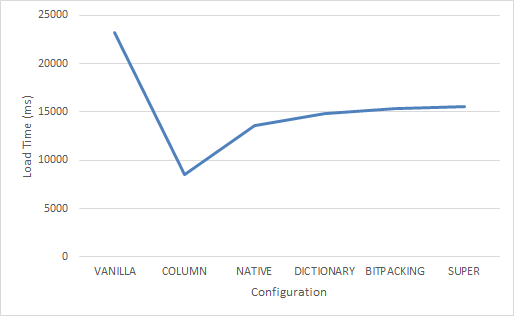
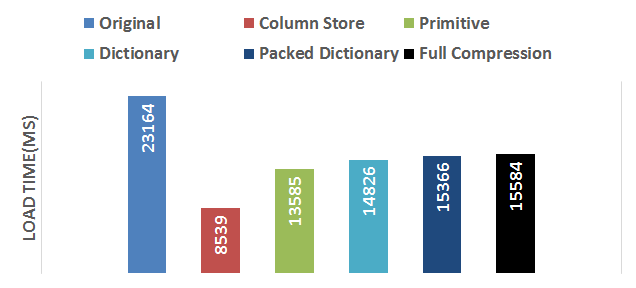
Chapter 7 done

diff --git a/implementation/compression.tex b/implementation/compression.tex
@@ -1,6 +1,6 @@
 \chapter{Part III: Compression}
 \label{chap:compression}
-So far we have reduced the number of bytes per \lineitem~from 715 bytes to 374 bytes in the \textit{TPC-H Q1 Data Load Bencmark}. This corresponds to a reduction of 48 \%. However, we have not yet explored any compression techniques which we studied in Chapter \ref{chap:olap}. In this chapter, we investigate the effects of light-weight compression methods by implementing dictionary encoding, bitpacking, and property packing. Also, we inquire into a new technique for compressing null pointers, which we denote as \textit{null-pointer compression}. \todo{See if this name can be used}
+So far we have reduced the number of bytes per \lineitem~from 715 bytes to 374 bytes in the \tpchdl. This corresponds to a reduction of 48 \%. However, we have not yet explored any compression techniques which we studied in Chapter \ref{chap:olap}. In this chapter, we investigate the effects of light-weight compression methods by implementing dictionary encoding, bitpacking, and property packing. Also, we inquire into a new technique for compressing null pointers, which we denote as \textit{null pointer compression}. \todo{See if this name can be used}
 
 This chapter forms the third and final iteration where the goal is to reduce memory. There is one more iteration, but this does not seek to reduce memory any further, only utilize the storage structures to increase performance for read-intense operations.
 
@@ -8,35 +8,35 @@ This chapter forms the third and final iteration where the goal is to reduce mem
 
 \section{Introduction}
 \label{sec:Introduction}
-In Section \ref{sec:Compression}, we saw that compression not only reduces memory requirements but also comes with the benefit of increased performance. Compression is beneficial because it increases cache locality, turns processes CPU-bound from memory-bound and thus reduces the number of CPU cycles. SIMD instructions might also increase processing throughput on compressed data. According to Abadi \ea, compression increases performance by a factor of two on average \cite{Abadi2008-dd}. For compression to be beneficial the compression must be \textit{light-weight} since the real benefit of compression can only be leveraged if the decompression effort is minimized.
+In Section \ref{sec:Compression}, we saw that compression not only reduces memory requirements but also comes with the benefit of increased performance. Compression is beneficial because it increases cache locality, turns processes CPU-bound from memory-bound and thus reduces the number of CPU cycles needed to process data. SIMD instructions might also increase processing throughput on compressed data. According to Abadi \ea, compression increases performance by a factor of two on average \cite{Abadi2008-dd}. For compression to be beneficial the compression must be \textit{light-weight} since the real benefit of compression can only be leveraged if the decompression effort is minimized.
 
-One such light-weight compression technique, is \textit{dictionary encoding}, which we saw in Section \ref{sec:Dictionary Encoding}. In a dictionary encoded column, each distinct value is stored once in a structure known as a dictionary, and instead of storing the actual values, keys to this dictionary are stored in the column. Not only does this technique save space, but it may increase query performance since comparisons are reduced to cheap integer operations. In this iteration, we extend our column store to support dictionary encoding and hope to leverage the benefits this technique gives us.
+One such light-weight compression technique is \textit{dictionary encoding}, which we saw in Section \ref{sec:Dictionary Encoding}. In a dictionary encoded column, each distinct value is stored once in a structure known as a dictionary, and instead of storing the actual values, keys to this dictionary are stored in the column. Not only does this technique save space, but it may increase query performance since comparisons are reduced to cheap integer operations. In this iteration, we extend our column store to support dictionary encoding and hope to leverage the benefits this technique gives us.
 
 The second technique we implement in this iteration is bitpacking, which we studied in Section \ref{sec:Bitpacking}. In this compression scheme, no more bits than needed are used to store a value. This improves cache hit-rate and enables SIMD query processing. Bitpacking and dictionary encoding are commonly used in conjunction, and this what we will do in this iteration.
 
-Last, we explore two techniques to save even more memory in \gap. The first is a technique we denote as \textit{null-pointer compression}. It is based on the observation that a \cn{CompositionObject} has several properties, properties that are commonly \null. Thus, by moving the properties to the column store, we may save space by not allocating any values unless they are set. The second technique we apply is to compress the residual member variables in the \cn{CompositionObject} class with a \cn{packed record}.
+Last, we explore two techniques to save even more memory in \gap. The first is a technique we denote as \textit{null pointer compression}. It is based on the observation that a \cn{CompositionObject} has several properties, properties that are commonly \nil. Thus, by moving the properties to the column store, we may save space by not allocating any values unless they are set. The second technique we apply is to compress the residual member variables in the \cn{CompositionObject} class with a \cn{packed record}.
 
 \section{Implementation}
 \label{sec:Implementation}
-In this section, we explain how compression is implemented by creating new \cn{FieldValueCollectionBase} subclasses for dictionary encoding. Then we proceed with null-pointer compression and property packing.
+In this section, we explain how compression is implemented by creating new \cn{FieldValueCollectionBase} subclasses for dictionary encoding, both with and without bitpacking. Then we proceed with null pointer compression and property packing.
 
 \subsection{Dictionary Encoding}
 \label{compression:dictionary-encoding}
 % Short introduction on DE
-In Section \ref{sec:Dictionary Encoding}, we saw that dictionary encoding is commonly applied as a compression technique in OLAP-databases. There are many benefits with dictionary encoding in addition to a reduction in memory usage, like improved data locality and query speedup. For instance, expensive string operations can be reduced to cheap integer comparisons by scanning the dictionary for keys first.
+In Section \ref{sec:Dictionary Encoding}, we saw that dictionary encoding is commonly applied as a compression technique in OLAP-databases. There are many benefits with dictionary encoding in addition to a reduction in memory usage, like improved data locality and query speedup.
 
 In a dictionary encoded column, the dictionary can be structured either for read or write performance, or both. For read performance, there must exist a lookup from a dictionary index to the actual value. For such lookup, a simple index-based list suffices, adding new keys to the end of the list as they appear. Hence, value lookups happen in constant time. However, with this implementation, a linear search to find the correct key in the dictionary is performed every time there is a write operation on the column. Here, an inverse lookup from dictionary values to indexes would be beneficial.
 
 \afigure{img/dict-inverse.png}{Dictionary encoded column implementation. Both value buffer and dictionary are stored using \cn{TArray}. To ensure constant time write operations, we keep an inverse lookup from values to dictionary keys, which is implemented as a \cn{TDictionary}. Read-only data sources may drop the inverse lookup to save memory.}{fig:dict-inverse}{1.0}
-Since \gap~must handle both transactional and analytical workloads, we implement a dictionary encoded column with both lookup structures, such that both read and write operations happen in constant time. We have depicted this in Figure \ref{fig:dict-inverse}. However, keeping both structures comes at the cost of increased memory. Thus, for read-only workloads, like \gd, we would like to discard the inverse lookup. We implement this in \fn{Consolidate}; when this function is called, we deallocate the inverse lookup.
+Since \gap~must handle both transactional and analytical workloads, we implement a dictionary encoded column with both lookup structures, such that both read and write operations happen in constant time. We have depicted this in Figure \ref{fig:dict-inverse}. However, keeping both structures comes at the cost of increased memory. Thus, for read-only workloads, like \gd, we would like to discard the inverse lookup. We implement this in \fn{Consolidate}; when this function is called, we deallocate the inverse lookup. \todo{Consider rewriting}
 
 \afigure{img/PrimitiveDictionaryFieldValueCollection.png}{\cn{PrimitiveDictionaryFieldValueCollection} class diagram. The class inherits from \cn{FieldValueCollectionBase}, and has a subclass for each supported primitive type.}{fig:PrimitiveDictionaryFieldValueCollection}{0.9}
-We implement a new class, \cn{PrimitiveDictionaryFieldValueCollection}, to be our dictionary encoded column class. The class uses \cn{TArray} for both values, or dictionary keys, and the dictionary itself. We chose this array type based on the performance assessment from Appendix \ref{app:array-types}. For the inverse lookup, we use a \cn{TDictionary}. For different primitive types, \cn{PrimitiveDictionaryFieldValueCollection} has a subclass for each supported type which uses the same value helper as we introduced in the previous section. \cn{PrimitiveDictionaryFieldValueCollection} extends \cn{FieldValueCollectionBase}. A full class diagram is shown in Figure \ref{fig:PrimitiveDictionaryFieldValueCollection}.
+We implement a new class, \cn{PrimitiveDictionaryFieldValueCollection}, to be our dictionary encoded column class. The class uses \cn{TArray} for both values, or dictionary keys, and the dictionary itself. We choose this array type since the performance assesment from Appendix \ref{app:array-performance} indicates that \cn{TArray} is the fastest array structure. For the inverse lookup, we use a \cn{TDictionary}. For different primitive types, \cn{PrimitiveDictionaryFieldValueCollection} has a subclass for each supported type which uses the same value helper as we introduced in the previous section. \cn{PrimitiveDictionaryFieldValueCollection} extends \cn{FieldValueCollectionBase}. A class diagram is shown in Figure \ref{fig:PrimitiveDictionaryFieldValueCollection}.
 
-The array with dictionary keys, or value buffer, uses the same growth strategy as we discussed in Section \ref{sub:Growth Strategy}. Like \cn{FieldValueCollection} and \cn{PrimitiveFieldValueCollection}, the value buffer is doubled on index overflow, and the \fn{Consolidate} method resize the column to the exact data source size.
+The array with dictionary keys, or the value buffer, uses the same growth strategy as we discussed in Section \ref{sub:Growth Strategy}. Like \cn{FieldValueCollection} and \cn{PrimitiveFieldValueCollection}, the value buffer is doubled on index overflow, and the \fn{Consolidate} method resize the column to the exact data source size.
 
 \subsection{Bitpacking}
-\label{sub:Bitpacking}
+\label{compression:bitpacking}
 
 % Short introduction on bp
 Bitpacking is a compression technique where values are stored with no more bits than needed. As we saw in Section \ref{sub:Dictionary Encoding and Bitpacking}, dictionary encoding and bitpacking goes hand in hand. We, therefore, implement bitpacking in our dictionary encoded columns to save memory.
@@ -45,22 +45,22 @@ Bitpacking is a compression technique where values are stored with no more bits 
 \afigure{img/bp-overflow.png}{Bitpacked value buffer. First, we see a dictionary overflow, where the value buffer is rebuilt with extra padding. Second, if needed, a new cell is added to hold the new value.}{fig:bp-overflow}{1.0}
 We implement the value buffer as an array of 8 byte chucks, where we denote each chunk as a \textit{cell}. Unlike previous column implementations, a cell is added one at a time, instead of using a doubling strategy. We did this for simplicity reasons, and, since each cell contains multiple values, array reallocation happens less frequent than for an uncompressed column.
 
-One of the main challenges with bitpacking, is word alignment. If keys are allowed to cross machine word boundaries, not only performance will suffer, but the implementation complexity increase drastically. Therefore, we take a simpler approach, where the number of bits used to store each value must be a power of 2. As seen in Figure \ref{fig:bp-overflow}, a dictionary overflow causes the bits per value to go from two to four to avoid values stored across machine word boundaries. When a dictionary overflows, the columns rebuilds the entirev value buffer using the new number of bits per value.
+One of the main challenges with bitpacking, is word alignment. If keys are allowed to cross machine word boundaries, not only performance will suffer, but the implementation complexity increase drastically. Therefore, we take a simpler approach, where the number of bits used to store each value must be a power of 2. As seen in Figure \ref{fig:bp-overflow}, a dictionary overflow causes the bits per value to go from two to four to avoid values stored across machine word boundaries. When a dictionary overflows, the columns rebuilds the entire value buffer using the new number of bits per value.
 
 \afigure{img/PrimitivePackedDictionaryFieldValueCollection.png}{\cn{PrimitivePackedDictionaryFieldValueCollection} class diagram. The class is very similar to \cn{PrimitiveDictionaryFieldValueCollection}, but it has a different storage structure for its values and holds some state variables needed for bitpacking.}{fig:PrimitivePackedDictionaryFieldValueCollection}{0.7}
 We name our bitpacked dictionary encoded column class \cn{PrimitivePackedDictionaryFieldValueCollection}, and, like always, the class inherits from \cn{FieldValueCollectionBase}. The value buffer was implemented using a \cn{TArray<UInt64>}. Like the non-packed version, a \cn{TArray} was used for the dictionary and \cn{TDictionary} for the inverse lookup. In addition to this, the class holds some state regarding the bitpacking, and a private function \fn{IncreaseDictionaryCapacity} which rebuilds the value buffer on dictionary overflow. The class diagram is seen in Figure \ref{fig:PrimitivePackedDictionaryFieldValueCollection}.
 
 \subsection{Null Pointer Compression}
-\label{sub:Null Pointer Compression}
+\label{compression:null-pointer-compression}
 
-\afigure{img/null-pointer-compression.png}{Null pointer compression. Based on the observation that most \cn{CompositionObject} properties are normally \nil, data can be compressed by not allocating value buffers until the properties are set.}{fig:null-pointer-compression}{0.9}
+\afigure{img/null-pointer-compression.png}{Null pointer compression. Based on the observation that most \cn{CompositionObject} properties are normally \nil, data can be compressed by not allocating value buffers until the properties are set.}{fig:null-pointer-compression}{1.0}
 
 So far, we have compressed data from the Information System and Information System Development Layers. However, there are several other structures that belong to \cn{CompositionObject}s which are used in the Method Engineering layer. These structures include lists of data validation and integrity errors, formatting rules, and more. Our observation is that these attributes are not fundamentally different from attributes from the other model-driven engineering layers, which means we are able to put these pointers into our column store too. Although one might initially think that we have only moved the problem and that the pointers now are stored in the column store instead in the composition objects, we may save memory based on the observation that these pointers are usually \nil. In other words, these pointer columns do not need to be allocated before any values are set. We illustrate this scenario in Figure \ref{fig:null-pointer-compression}.
 
 To enable null pointer compression, we implement a new generic column structure named \cn{DefaultObjectList<TType>}. This class is an array structure that can be instantiated with any class type that will return \nil~if no values are set. If values are set, the array, or column, is allocated to accommodate these values. We extend the base column store class, \cn{CompositionValueCollection}, with one such \cn{DefaultObjectList} for each pointer variable in \cn{CompositionObject}. Hence, objects must now query the column store and provide a data source index to access structures used in the method engineering layer, like validation errors and formatting rules. A total of six member variables from \cn{CompositionObject} was moved to the column store.
 
 \subsection{Property Packing}
-\label{sub:Property Packing}
+\label{compression:property-packing}
 \begin{delphicode}{Structure with packed data for \cn{CompositionObject}.}{lst:packed-struct}
 PackedComObjData = packed record
     modifyCount,
@@ -73,13 +73,11 @@ In the last section, we saw how null pointers could be compressed by moving memb
 
 To reduce the memory footprint used by these attributes, we compress them in a \delphi~record type with the \vn{packed} keyword. This keyword tells the compiler to pack data and disregard word boundaries \cite{noauthor_undated-vu}. Thus, we take all the residual properties from the \cn{CompositionObject} class and move it to a \cn{PackedComObjData} record type. Listing \ref{lst:packed-struct} shows the structure.
 
-As a result of both null pointer compression from Section \ref{sec:Null Pointer Compression} and the property packing from this section, a \cn{CompositionObject} has no member variables except for the \cn{PackedComObjData} record and a pointer to the column store.
+As a result of both null pointer compression and property packing, a \cn{CompositionObject} has no member variables except for the \cn{PackedComObjData} record and a pointer to the column store.
 
 \section{Results}
 \label{sec:Results}
 We test the changes from this iteration with the \tpchdl, Benchmark \ref{bm:q1} and the \textit{Write Benchmark}, Benchmark \ref{bm:write}. Like the previous two iterations, we are curious to see how compression techniques affect memory consumption, load time, read performance, and write performance. 
-
-
 
 \begin{table}
     \begin{tabularx}{\textwidth}{X | X X}
@@ -103,84 +101,45 @@ We read in Section \ref{sec:Dictionary Encoding} that dictionary encoding is onl
 
 In this iteration, we test four new configurations in addition to the primitive column configuration from the previous chapter:
 \begin{itemize}
-    \item \textbf{Primitive} is the configuration from the last iteration, which is column store with non-compressed, primitive values.
-    \item \textbf{Dictionary} uses dictionary compression from Section \ref{compression:dictionary-encoding]}. No bitpacking.
-    \item \textbf{Dictionary /w Raw Load} is the same dictionary compression configuration as above, but with raw XML string value load as outlined in Section \ref{storage-format:raw-xml}.
-    \item \textbf{Packed Dictionary} is the bitpacked dictionary compression from Section \ref{compression:bitpacking}.
-    \item \textbf{Full Compression} uses bitpacked dictionary as well as null pointer compression and property packing.
+    \item \textit{Primitive} is the configuration from the last iteration, which is column store with non-compressed, primitive values.
+    \item \textit{Dictionary} uses dictionary compression from Section \ref{compression:dictionary-encoding}. No bitpacking.
+    \item \textit{Dictionary /w Raw Load} is the same dictionary compression configuration as above, but with raw XML string value load as outlined in Section \ref{storage-format:raw-xml}.
+    \item \textit{Packed Dictionary} is configuration where we use the bitpacked dictionary compression from Section \ref{compression:bitpacking}.
+    \item \textit{Full Compression} configuration uses all compression techniques discussed in this chapter: Bitpacked dictionary encoding with null pointer compression and proprety packing.
 \end{itemize}
+Like the previous iterations, we run each benchmark three times and report the mean measurements. All results had low variance, within 15 \% of the average measurement.
 
 \subsection{TPC-H Q1 Data Load Benchmark}
-Benchmark \ref{bm:q1}, the \textit{TPC-H Q1 Data Load Benchmark}, was run with all three compression configurations. In addition to this, dictionary encoding was run with raw value load, as explained in Section \ref{sec:Avoiding GValues at Load Time}. Both scaling factors were used for the tests. Like the previous chapters, all tests were run three times per configuration. There was low variance in the results, and no single measurement was more than 15 \% different from the average value.
-\begin{table}
-    \centering
-    \begin{tabularx}{\textwidth}{X | X X}
-        & SF0.01 & SF0.1 \\ 
-        \hline
-        \hline
-        Primitive Column Store & 333 bytes & 374 bytes \\
-        Dictionary Encoding & 298 bytes & 318 bytes \\
-        Dictionary Encoding w/ raw value load & 298 bytes & 318 bytes \\
-        Dictionary Encoding w/ bitpacking & 290 bytes & 301 bytes \\
-        Dictionary Encoding w/ bitpacking, null-pointer compression, and attribute packing & 226 bytes & 237 bytes \\
-    \end{tabularx}
-    \caption{Bytes per \texttt{LINEITEM} for various compression implementations.} 
-    \label{tab:dict-bpl}
-\end{table}
+Benchmark \ref{bm:q1}, the \tpchdl, was run with all configurations enumerated above. We use both scaling factors, SF0.01 and SF0.1, but if we observe the same effects with both, we only report for SF0.1.
 
-We see in Table \ref{tab:dict-bpl} that memory used per lineitem is reduced by 11 \% and 15 \% for scaling factors 0.01 and 0.1 respectively. Also, there is no longer a difference between memory footprint for original and new raw value loading mechanism, something we observed in Section \ref{sub:storage-format-tpch-results}. There is a slight memory reduction by applying bit-packing, but null-pointer compression and attribute packing has reduced memory storage from 374 to 237 bytes for scaling factor 0.1, which means our compression has reduced memory usage by 37 \%. 
-\begin{table}
-    \centering
-    \begin{tabularx}{\textwidth}{X | X X}
-        & SF0.01 & SF0.1 \\ 
-        \hline
-        \hline
-        Primitive Column Store & 1210 ms & 13585 ms \\
-        Dictionary Encoding & 1332 ms & 14826 ms \\
-        Dictionary Encoding w/ raw value load & 2215 ms & 21760 ms \\
-        Dictionary Encoding w/ bitpacking & 1421 ms &  15366 ms \\
-        Dictionary Encoding w/ bitpacking, null-pointer compression, and attribute packing & 1389 ms & 15584 ms \\
-    \end{tabularx}
-    \caption{Load times for Benchmark \ref{bm:q1} for different column compression implementations for scaling factors 0.01 and 0.1.} 
-    \label{tab:dict-load}
-\end{table}
+\afigure{img/compression-bpl.png}{Bytes per \lineitem~used by all configurations tested in this iteration of data compression, Benchmark \ref{bm:q1} with scaling factors SF0.01 and SF0.1.}{fig:compression-bpl}{0.9}
+We see in Figure \ref{fig:compression-bpl} that the \textit{dictionary} configuration reduce memory by 11 \% and 15 \% for scaling factors 0.01 and 0.1 respectively. Also, there is no longer a difference in memory footprint for original and raw XML value loading mechanism, something there was in Section \ref{sub:storage-format-tpch-results}. Null pointer compression and property packing significantly reduce memory consumption, while bitpacking only reduces the bytes per \lineitem~by 5 \%. For SF0.1, the total reduction from \textit{primitive} to \textit{full compression} is 137 bytes, or 37 \%.
 
-As we see in Table \ref{tab:dict-load}, load times have increased as a result of the compression. For scaling factor 0.1, dictionary encoding adds 1.2 seconds load time, bitpacking adds an additional 0.5 seconds, and null-pointer compression and attribute packing adds 0.2 seconds more. Even though load time has been increased, it is still less than the original implementation. Loading raw values into the columns increases load time to 21.8 seconds for SF 0.1. We discuss this observation in Section \ref{sec:compression-discussion}.
+\afigure{img/compression-load.png}{Data source load time for all compression configurations tested in this iteration, Benchmark \ref{bm:q1}, SF0.1.}{fig:compression-load}{0.8}
+As we see in Figure \ref{fig:compression-load}, load times have increased as a result of compression. For SF0.1, dictionary encoding adds 1.2 seconds load time, bitpacking adds an additional 0.5 seconds, and null pointer compression and property packing adds 0.2 seconds more. Even though load time has been increased, it is still less than the original implementation. Loading raw values into the columns increases load time to 21.8 seconds for SF 0.1. 
 
-We refrain from presenting the timing results for lookup index generation and source measure lookup from Benchmark \ref{bm:q1}. These does not vary significantly from the results presented in Section \ref{sec:storage-format-test-results}.
+We benchmark the read-intense operations, lookup index generation and source measure lookup, for all configurations in this iteration. However, since the measurements are not significantly different from the previous iteration, we do not present them in this chapter. See Section \ref{storage-format:q1}.
 
 \subsection{Write Benchmark}
-\label{sub:compression-write-benchmark}
-\begin{table}
-    \begin{tabularx}{\textwidth}{X | X X X X}
-         & \texttt{QUANTITY} & \texttt{EXTENDEDPRICE} & \texttt{COMMENT} & \texttt{SHIPDATE}\\ 
-        \hline
-        \hline
-        Primitive Column Store & 1807 ms & 1779 ms & 1820 ms & 2352 ms \\
-        Dictionary Encoding & 1855 ms & 1774 ms & 1753 ms & 2183 ms \\
-        Dictionary Encoding /w Bitpacking & 1757 ms & 1638 ms & 1657 ms & 2198 ms \\
-        Dictionary Encoding /w Bitpacking, null-pointer compression and attribute packing & 1939 ms & 1813 ms & 1777 ms & 227 ms \\
-    \end{tabularx}
-    \caption{Test results for Benchmark \ref{bm:write}.}
-    \label{tab:compression-write}
-\end{table}
-Write performance has not been significantly changed compared to primitive column storage, as seen it Table \ref{tab:compression-write}. Bitpacking is the fastest of all implementations, but only by very little.
+\label{compression:write}
+\afigure{img/compression-write.png}{Write performance for configurations tested in this iteration, Benchmark \ref{bm:write}, 1000 elements.}{fig:compression-write}{1.0}
+Write performance has not been significantly changed compared to primitive column storage, as seen it Figure \ref{fig:compression-write}. Bitpacking is the fastest of all implementations, but only by very little.
 
 \section{Discussion}
 \label{sec:compression-discussion}
-We see that dictionary encoding is successful for compressing data, and for SF0.1 in the \textit{TPC-H Q1 Data Load Benchmark}, memory is reduced by 15 \% compared to the primitive column structure from the previous chapter. Bitpacking also contributes to reduced memory footprint, but not more than five percent. The increased compression rates come at the cost of higher load times and is now up to 15,4 seconds to load the entire mart into memory.
+We see that dictionary encoding is successful for compressing data, and for SF0.1 in the \tpchdl, memory is reduced by 15 \% compared to the primitive column structure from the previous chapter. Bitpacking also contributes to reduced memory footprint, but not more than five percent. The increased compression rates come at the cost of higher load times and it now takes 15,4 seconds to load the full data mart into memory.
 
-Null-pointer compression and property packing contribute to large memory savings and reduces the storage per \lineitem~from 301 bytes to 237 bytes. We observe that this number makes sense. We removed a total of eight pointers, and with 8 bytes per pointer, 64 bytes are saved. Hence, we are unsure whether property packing had any effect at all. \todo{check how many removed pointers} Either way, these two techniques does not significantly increase load time.
+Null pointer compression and property packing contribute to large memory savings and reduces the storage per \lineitem~from 301 bytes to 237 bytes, or 64 bytes. Since we only removed six pointers, or 48 bytes, it means property packing contributes to saving 16 bytes per element. Neither of these two techniques increase load time significantly.
 
-Neither of the applied techniques has changed the write performance, which strengthens our hypothesis that write operations have much overhead associated integrity, data validation, and formula calculation. However, read-intense operations in the \textit{TPC-H Q1 Data Load Benchmark} still suffers severely from the modification applied to \gap~so far, and we believe this is caused by the \cn{GValue} interface.
+None of the applied techniques has changed the write performance, which strengthens our hypothesis that write operations have much overhead associated integrity, data validation, and formula calculation. However, read-intense operations in the \tpchdl~still suffers severely from the modification applied to \gap~so far, and we believe this is caused by the \cn{GValue} interface.
 
-If we load raw XML string values directly into a dictionary encoded column, we observe that we save the same amount of memory as the built-in caching mechanism in \gap. In other words, the number of bytes for dictionary encoding and dictionary encoding with raw value load is the same. However, the load time is still significantly longer loading raw values. We believe this is because the caching mechanism not only re-uses data but also stores string-to-primitive conversion results. We discuss how a similar caching mechanism can be implemented in our column store in Section \ref{compression:future-work}
+If we load raw XML string values directly into a dictionary encoded column, we observe that we save the same amount of memory as the built-in caching mechanism in \gap. In other words, the number of bytes for dictionary encoding and dictionary encoding with raw value load is the same. However, the load time is still significantly longer if we load raw XML values. We believe this is because the caching mechanism not only re-uses data but also stores string-to-primitive conversion results. We discuss how a similar caching mechanism can be implemented in our column store in Section \ref{compression:future-work}.
 
 \section{Iteration Conclusion}
 \label{sec:Iteration Conclusion}
-\afigure{img/bytes.png}{The bytes used per \lineitem~during the course of this research.}{fig:bytes}{1.0}
-\afigure{img/load.png}{The number of milliseconds it takes to load the \textit{TPC-H Q1} data mart for the course of this research.}{fig:load}{1.0}
-In this iteration, we have reduced the memory required to load the \textit{TPC-H Q1} mart by 37 \%. This reduction is mainly caused by dictionary encoding and null-pointer compression. Compared to the original \gap~implementation, the bytes per \lineitem~is reduced by 67 \%. The reduction in memory usage is illustrated in Figure \ref{fig:bytes}. Although the introduction of primitive data types and compression has increased load time from the first \cn{FieldValueCollection} implementation, the time it takes to load the \textit{TPC-H Q1} mart is still reduced by 33 \% compared to the original implementation. This is illustrated in Figure \ref{fig:load}.
+\afigure{img/bytes.png}{The bytes used per \lineitem~for different configurations tested during the course of this research, Benchmark \ref{bm:q1}, SF0.1.}{fig:bytes}{0.8}
+\afigure{img/load.png}{The number of milliseconds used to load the \tpchdl~for different configurations tested during the course of this research, Benchmark \ref{bm:q1}, SF0.1.}{fig:load}{0.8}
+In this iteration, we have reduced the memory required by Benchmark \ref{bm:q1} by 37 \%. This reduction is mainly caused by dictionary encoding and null pointer compression. Compared to the original \gap~implementation, the bytes per \lineitem~is reduced by 67 \%. The reduction in memory usage throughout the iterations of this research illustrated in Figure \ref{fig:bytes}. Although the introduction of primitive data types and compression has increased load time from the first \cn{FieldValueCollection} implementation, the time it takes to load the \tpchdl~is still reduced by 33 \% compared to the original implementation. This is illustrated in Figure \ref{fig:load}.
 
 Concluding this iteration, we are left with two major challenges. The first challenge was discovered in the previous iteration: Read-intensive operations must be adapted to utilize the new storage format. For instance, one of source measure lookup operations in Benchmark \ref{bm:q1}~now takes 6.9 seconds, an operation which previously took 0.3 seconds. We address this challenge in Chapter \ref{chap:operations}.
 
@@ -191,3 +150,48 @@ The second challenge, which is a result of dictionary compression, is to select 
 Like the last iteration, we encourage studying the built-in caching mechanism in \gap. We have proved that dictionary encoded columns re-use values as efficiently as the existing mechanism, but if caching is disabled, the load time is significantly higher. We believe this is caused by the caching mechanism re-using string-to-primitive value conversions. One straight-forward solution to the problem would be to add a \vn{rawInverseLookup} to the \cn{PrimitiveDictionaryFieldValueCollection} class which translates raw XML strings to dictionary indexes.
 
 In our bitpacking implementation, cells are added one at a time to a column instead of doubling capacity. Although one cell normally contains more than one value, the effects of the doubling growth strategy should be investigated.
+%\begin{table}
+%    \centering
+%    \begin{tabularx}{\textwidth}{X | X X}
+%        & SF0.01 & SF0.1 \\ 
+%        \hline
+%        \hline
+%        Primitive Column Store & 333 bytes & 374 bytes \\
+%        Dictionary Encoding & 298 bytes & 318 bytes \\
+%        Dictionary Encoding w/ raw value load & 298 bytes & 318 bytes \\
+%        Dictionary Encoding w/ bitpacking & 290 bytes & 301 bytes \\
+%        Dictionary Encoding w/ bitpacking, null-pointer compression, and attribute packing & 226 bytes & 237 bytes \\
+%    \end{tabularx}
+%    \caption{Bytes per \texttt{LINEITEM} for various compression implementations.} 
+%    \label{tab:dict-bpl}
+%\end{table}
+
+%\begin{table}
+%    \centering
+%    \begin{tabularx}{\textwidth}{X | X X}
+%        & SF0.01 & SF0.1 \\ 
+%        \hline
+%        \hline
+%        Primitive Column Store & 1210 ms & 13585 ms \\
+%        Dictionary Encoding & 1332 ms & 14826 ms \\
+%        Dictionary Encoding w/ raw value load & 2215 ms & 21760 ms \\
+%        Dictionary Encoding w/ bitpacking & 1421 ms &  15366 ms \\
+%        Dictionary Encoding w/ bitpacking, null-pointer compression, and attribute packing & 1389 ms & 15584 ms \\
+%    \end{tabularx}
+%    \caption{Load times for Benchmark \ref{bm:q1} for different column compression implementations for scaling factors 0.01 and 0.1.} 
+%    \label{tab:dict-load}
+%\end{table}
+
+%\begin{table}
+%    \begin{tabularx}{\textwidth}{X | X X X X}
+%         & \texttt{QUANTITY} & \texttt{EXTENDEDPRICE} & \texttt{COMMENT} & \texttt{SHIPDATE}\\ 
+%        \hline
+%        \hline
+%        Primitive Column Store & 1807 ms & 1779 ms & 1820 ms & 2352 ms \\
+%        Dictionary Encoding & 1855 ms & 1774 ms & 1753 ms & 2183 ms \\
+%        Dictionary Encoding /w Bitpacking & 1757 ms & 1638 ms & 1657 ms & 2198 ms \\
+%        Dictionary Encoding /w Bitpacking, null-pointer compression and attribute packing & 1939 ms & 1813 ms & 1777 ms & 227 ms \\
+%    \end{tabularx}
+%    \caption{Test results for Benchmark \ref{bm:write}.}
+%    \label{tab:compression-write}
+%\end{table}

diff --git a/implementation/storage-format.tex b/implementation/storage-format.tex
@@ -97,7 +97,7 @@ We test two configurations in this iteration which is the new primitive value co
 Full benchmark details are found in Appendix \ref{app:bm}.
 
 \subsection{TPC-H Q1 Data Load Benchmark}
-\label{sub:storage-format-tpch-results}
+\label{storage-format:q1}
 
 Benchmark \ref{bm:q1} was run with the new primitive value column implementation, with and without the new loading scheme. We run both scaling factors SF0.01 and SF0.1, but if we observe the same effects on both scaling factors, we only report for SF0.1.
 
